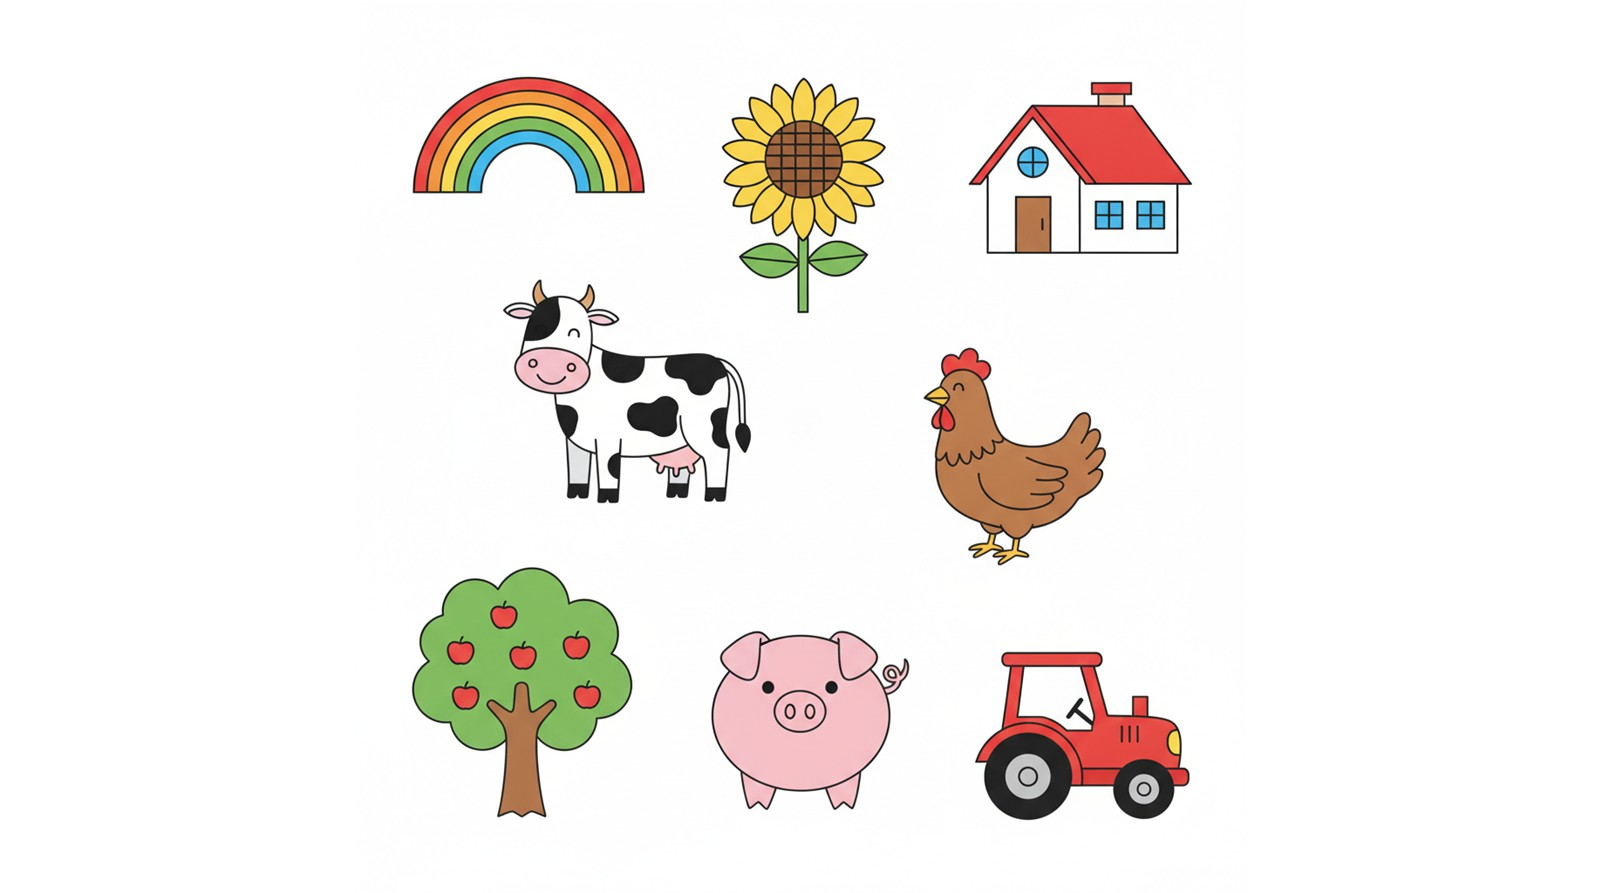
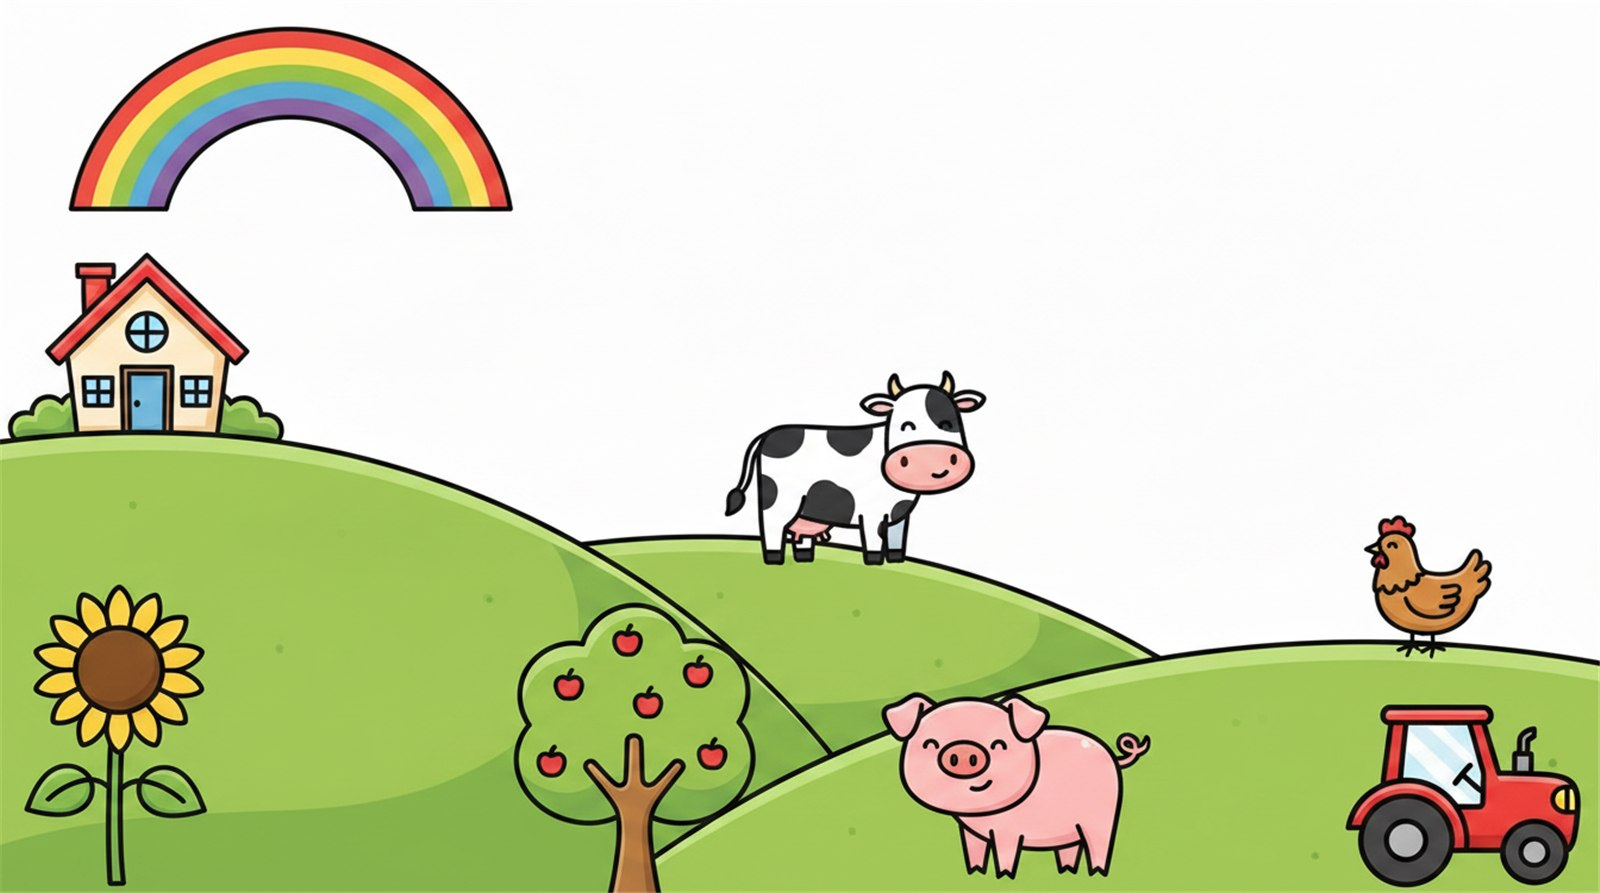
korean-kids: 농장을 하나의 풍경 장면으로 교체(바닷가 구도 참조) + 동요 4곡 전부 멜로디 반주+가사 목소리 동시(노래 형태)

diff --git a/korean-kids.html b/korean-kids.html
@@ -411,7 +411,7 @@ var drawData=null,drawTimers=[],DRAWWIN=3600,drawSeq=0;
 /* 그림 장면 여러 개 — 고르면 그 장면을 그림 */
 var DRAWSCENES={
   '바닷가':{icon:'🏖',img:'images/scene-beach.jpg?v=4',json:'images/scene-beach-lines.json?v=4'},
-  '농장':{icon:'🚜',img:'images/scene-farm.jpg?v=1',json:'images/scene-farm-lines.json?v=1'}
+  '농장':{icon:'🚜',img:'images/scene-farm.jpg?v=2',json:'images/scene-farm-lines.json?v=2'}
 };
 var curDraw='바닷가',drawCache={};
 function renderDrawCats(){var el=$('drawCats');if(!el)return;el.innerHTML='';
@@ -546,7 +546,7 @@ function highlight(i){var ls=$('songLines').children;for(var k=0;k<ls.length;k++
 var songTimers=[],audioCtx=null,songNodes=[];
 var NOTE={do:261.63,re:293.66,mi:329.63,fa:349.23,sol:392.00,la:440.00,ti:493.88,do2:523.25};
 var MELO={
- '작은 별':{beat:0.52,lines:[
+ '작은 별':{beat:0.62,lines:[
    [['do',1],['do',1],['sol',1],['sol',1],['la',1],['la',1],['sol',2]],
    [['fa',1],['fa',1],['mi',1],['mi',1],['re',1],['re',1],['do',2]],
    [['sol',1],['sol',1],['fa',1],['fa',1],['mi',1],['mi',1],['re',2]],
@@ -554,21 +554,35 @@ var MELO={
    [['do',1],['do',1],['sol',1],['sol',1],['la',1],['la',1],['sol',2]],
    [['fa',1],['fa',1],['mi',1],['mi',1],['re',1],['re',1],['do',2]]
  ]},
- '곰 세 마리':{beat:0.44,lines:[
+ '곰 세 마리':{beat:0.56,lines:[
    [['do',.5],['do',.5],['do',.5],['do',.5],['do',.5],['mi',.5],['sol',.5],['sol',.5],['mi',.5],['do',1]],
    [['sol',.5],['sol',.5],['mi',1],['sol',.5],['sol',.5],['mi',1],['do',.5],['do',.5],['do',1]],
    [['sol',.5],['sol',.5],['mi',.5],['do',.5],['sol',.5],['sol',.5],['sol',1]],
    [['sol',.5],['sol',.5],['mi',.5],['do',.5],['sol',.5],['sol',.5],['sol',1]],
    [['sol',.5],['sol',.5],['mi',.5],['do',.5],['sol',.5],['sol',.5],['sol',.5],['la',.5],['sol',1]],
    [['do',.5],['sol',.5],['do',.5],['sol',.5],['mi',.5],['re',.5],['do',1]]
+ ]},
+ '나비야':{beat:0.5,lines:[
+   [['sol',.5],['mi',.5],['mi',1],['fa',.5],['re',.5],['re',1],['do',.5],['re',.5],['mi',.5],['fa',.5],['sol',.5],['sol',.5],['sol',1]],
+   [['sol',.5],['mi',.5],['mi',1],['fa',.5],['re',.5],['re',1],['do',.5],['mi',.5],['sol',.5],['sol',.5],['mi',.5],['mi',.5],['mi',1]],
+   [['re',.5],['re',.5],['re',.5],['re',.5],['re',.5],['mi',.5],['fa',1],['mi',.5],['mi',.5],['mi',.5],['mi',.5],['mi',.5],['fa',.5],['sol',1]],
+   [['sol',.5],['mi',.5],['mi',1],['fa',.5],['re',.5],['re',1],['do',.5],['mi',.5],['sol',.5],['sol',.5],['do',.5],['do',.5],['do',1]]
+ ]},
+ '머리 어깨 무릎 발':{beat:0.5,lines:[
+   [['sol',.5],['la',.5],['sol',.5],['fa',.5],['mi',.5],['fa',.5],['sol',1]],
+   [['sol',.5],['la',.5],['sol',.5],['fa',.5],['mi',.5],['fa',.5],['sol',1]],
+   [['re',.5],['mi',.5],['fa',1],['mi',.5],['fa',.5],['sol',1]],
+   [['sol',.5],['la',.5],['sol',.5],['fa',.5],['mi',.5],['re',.5],['do',1]]
  ]}
 };
 function stopSong(){ if(songTimer){clearTimeout(songTimer);songTimer=null;} songTimers.forEach(clearTimeout);songTimers=[];
-  songNodes.forEach(function(n){try{n.stop();}catch(e){}});songNodes=[]; }
+  songNodes.forEach(function(n){try{n.stop();}catch(e){}});songNodes=[];
+  try{if(ttsA){ttsA.pause();ttsA=null;}}catch(e){}
+  try{if('speechSynthesis' in window)speechSynthesis.cancel();}catch(e){} }
 function playNote(freq,t,dur){ if(!audioCtx)return;
   var o=audioCtx.createOscillator(),g=audioCtx.createGain();
   o.type='triangle';o.frequency.value=freq;
-  g.gain.setValueAtTime(0.0001,t);g.gain.linearRampToValueAtTime(0.22,t+0.02);
+  g.gain.setValueAtTime(0.0001,t);g.gain.linearRampToValueAtTime(0.13,t+0.02);
   g.gain.exponentialRampToValueAtTime(0.0008,t+dur*0.95);
   o.connect(g);g.connect(audioCtx.destination);o.start(t);o.stop(t+dur);songNodes.push(o); }
 function ensureAudio(){
@@ -581,9 +595,10 @@ function ensureAudio(){
 }
 function playMelody(m){
   if(!ensureAudio())return false;
+  var s=SONGS[curSong];
   var t=audioCtx.currentTime+0.12, off=0.12;
   m.lines.forEach(function(line,li){
-    (function(so){songTimers.push(setTimeout(function(){highlight(li);},Math.round(so*1000)));})(off);
+    (function(so,li2){songTimers.push(setTimeout(function(){highlight(li2);if(s.lines[li2])say(s.lines[li2][0]);},Math.round(so*1000)));})(off,li);
     line.forEach(function(nb){var dur=nb[1]*m.beat;playNote(NOTE[nb[0]]||440,t,dur);t+=dur;off+=dur;});
     off+=m.beat*0.2;t+=m.beat*0.2;
   });
